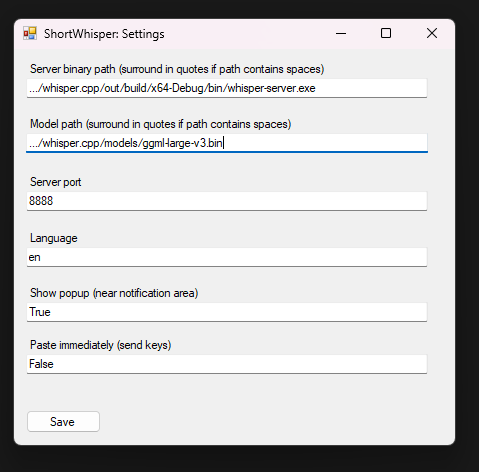
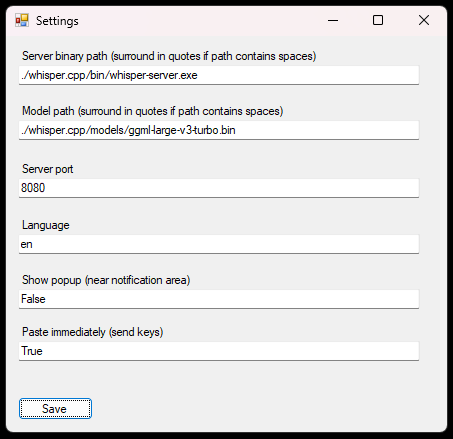
change tray description and app names

Changed region(s): [[0.0, 0.0, 1.0, 1.0]]

diff --git a/Properties/Resources.Designer.cs b/Properties/Resources.Designer.cs
@@ -8,7 +8,7 @@
 // </auto-generated>
 //------------------------------------------------------------------------------
 
-namespace ShortWhisper.Properties {
+namespace DesktopWhisper.Properties {
     using System;
     
     
@@ -39,7 +39,7 @@ namespace ShortWhisper.Properties {
         internal static global::System.Resources.ResourceManager ResourceManager {
             get {
                 if (object.ReferenceEquals(resourceMan, null)) {
-                    global::System.Resources.ResourceManager temp = new global::System.Resources.ResourceManager("ShortWhisper.Properties.Resources", typeof(Resources).Assembly);
+                    global::System.Resources.ResourceManager temp = new global::System.Resources.ResourceManager("DesktopWhisper.Properties.Resources", typeof(Resources).Assembly);
                     resourceMan = temp;
                 }
                 return resourceMan;

diff --git a/Program.cs b/Program.cs
@@ -1,10 +1,10 @@
-using ShortWhisper.Properties;
+using DesktopWhisper.Properties;
 using System;
 using System.Diagnostics;
 using System.Drawing;
 using System.Windows.Forms;
 
-namespace ShortWhisper
+namespace DesktopWhisper
 {
     internal static class Program
     {
@@ -23,7 +23,7 @@ namespace ShortWhisper
             {
                 Icon = SystemIcons.Application,
                 Visible = true,
-                Text = "ShortWhisper is working",
+                Text = "Desktop Whisper is working",
                 ContextMenuStrip = new ContextMenuStrip()
             };
             trayIcon.MouseClick += (a, b) => { if (b.Button == MouseButtons.Left) new MainForm().Show(); };

diff --git a/Properties/AssemblyInfo.cs b/Properties/AssemblyInfo.cs
@@ -5,11 +5,11 @@ using System.Runtime.InteropServices;
 // General Information about an assembly is controlled through the following
 // set of attributes. Change these attribute values to modify the information
 // associated with an assembly.
-[assembly: AssemblyTitle("ShortWhisper")]
+[assembly: AssemblyTitle("Desktop Whisper")]
 [assembly: AssemblyDescription("")]
 [assembly: AssemblyConfiguration("")]
 [assembly: AssemblyCompany("")]
-[assembly: AssemblyProduct("ShortWhisper")]
+[assembly: AssemblyProduct("Desktop Whisper")]
 [assembly: AssemblyCopyright("Copyright ©  2026")]
 [assembly: AssemblyTrademark("")]
 [assembly: AssemblyCulture("")]

diff --git a/MainForm.Designer.cs b/MainForm.Designer.cs
@@ -1,4 +1,4 @@
-namespace ShortWhisper
+namespace DesktopWhisper
 {
     partial class MainForm
     {
@@ -61,7 +61,7 @@
             this.Controls.Add(this.button1);
             this.Name = "MainForm";
             this.StartPosition = System.Windows.Forms.FormStartPosition.CenterScreen;
-            this.Text = "ShortWhisper";
+            this.Text = "Desktop Whisper";
             this.FormClosed += new System.Windows.Forms.FormClosedEventHandler(this.MainForm_Closed);
             this.ResumeLayout(false);
 

diff --git a/SettingsForm.Designer.cs b/SettingsForm.Designer.cs
@@ -1,4 +1,4 @@
-namespace ShortWhisper
+namespace DesktopWhisper
 {
     partial class SettingsForm
     {
@@ -168,7 +168,7 @@
             this.Controls.Add(this.label1);
             this.Controls.Add(this.serverPathTextBox);
             this.Name = "SettingsForm";
-            this.Text = "ShortWhisper: Settings";
+            this.Text = "Settings";
             this.ResumeLayout(false);
             this.PerformLayout();
 

diff --git a/MainForm.cs b/MainForm.cs
@@ -1,5 +1,5 @@
 using NAudio.Wave;
-using ShortWhisper.Properties;
+using DesktopWhisper.Properties;
 using System;
 using System.Drawing;
 using System.IO;
@@ -7,7 +7,7 @@ using System.Net.Http;
 using System.Text.RegularExpressions;
 using System.Windows.Forms;
 
-namespace ShortWhisper
+namespace DesktopWhisper
 {
     public partial class MainForm : Form
     {

diff --git a/Properties/Settings.Designer.cs b/Properties/Settings.Designer.cs
@@ -8,7 +8,7 @@
 // </auto-generated>
 //------------------------------------------------------------------------------
 
-namespace ShortWhisper.Properties {
+namespace DesktopWhisper.Properties {
     
     
     [global::System.Runtime.CompilerServices.CompilerGeneratedAttribute()]

diff --git a/WhisperController.cs b/WhisperController.cs
@@ -1,9 +1,9 @@
-using ShortWhisper.Properties;
+using DesktopWhisper.Properties;
 using System;
 using System.Diagnostics;
 using System.Windows.Forms;
 
-namespace ShortWhisper
+namespace DesktopWhisper
 {
     internal class WhisperController
     {

diff --git a/SettingsForm.cs b/SettingsForm.cs
@@ -1,8 +1,8 @@
-using ShortWhisper.Properties;
+using DesktopWhisper.Properties;
 using System;
 using System.Windows.Forms;
 
-namespace ShortWhisper
+namespace DesktopWhisper
 {
     public partial class SettingsForm : Form
     {

diff --git a/HotkeyWindow.cs b/HotkeyWindow.cs
@@ -2,7 +2,7 @@
 using System.Runtime.InteropServices;
 using System.Windows.Forms;
 
-namespace ShortWhisper
+namespace DesktopWhisper
 {
     internal class HotkeyWindow : NativeWindow, IDisposable
     {

diff --git a/NotificationForm.cs b/NotificationForm.cs
@@ -2,7 +2,7 @@
 using System.Drawing;
 using System.Windows.Forms;
 
-namespace ShortWhisper
+namespace DesktopWhisper
 {
     public partial class NotificationForm : Form
     {

diff --git a/NotificationForm.Designer.cs b/NotificationForm.Designer.cs
@@ -1,4 +1,4 @@
-namespace ShortWhisper
+namespace DesktopWhisper
 {
     partial class NotificationForm
     {
